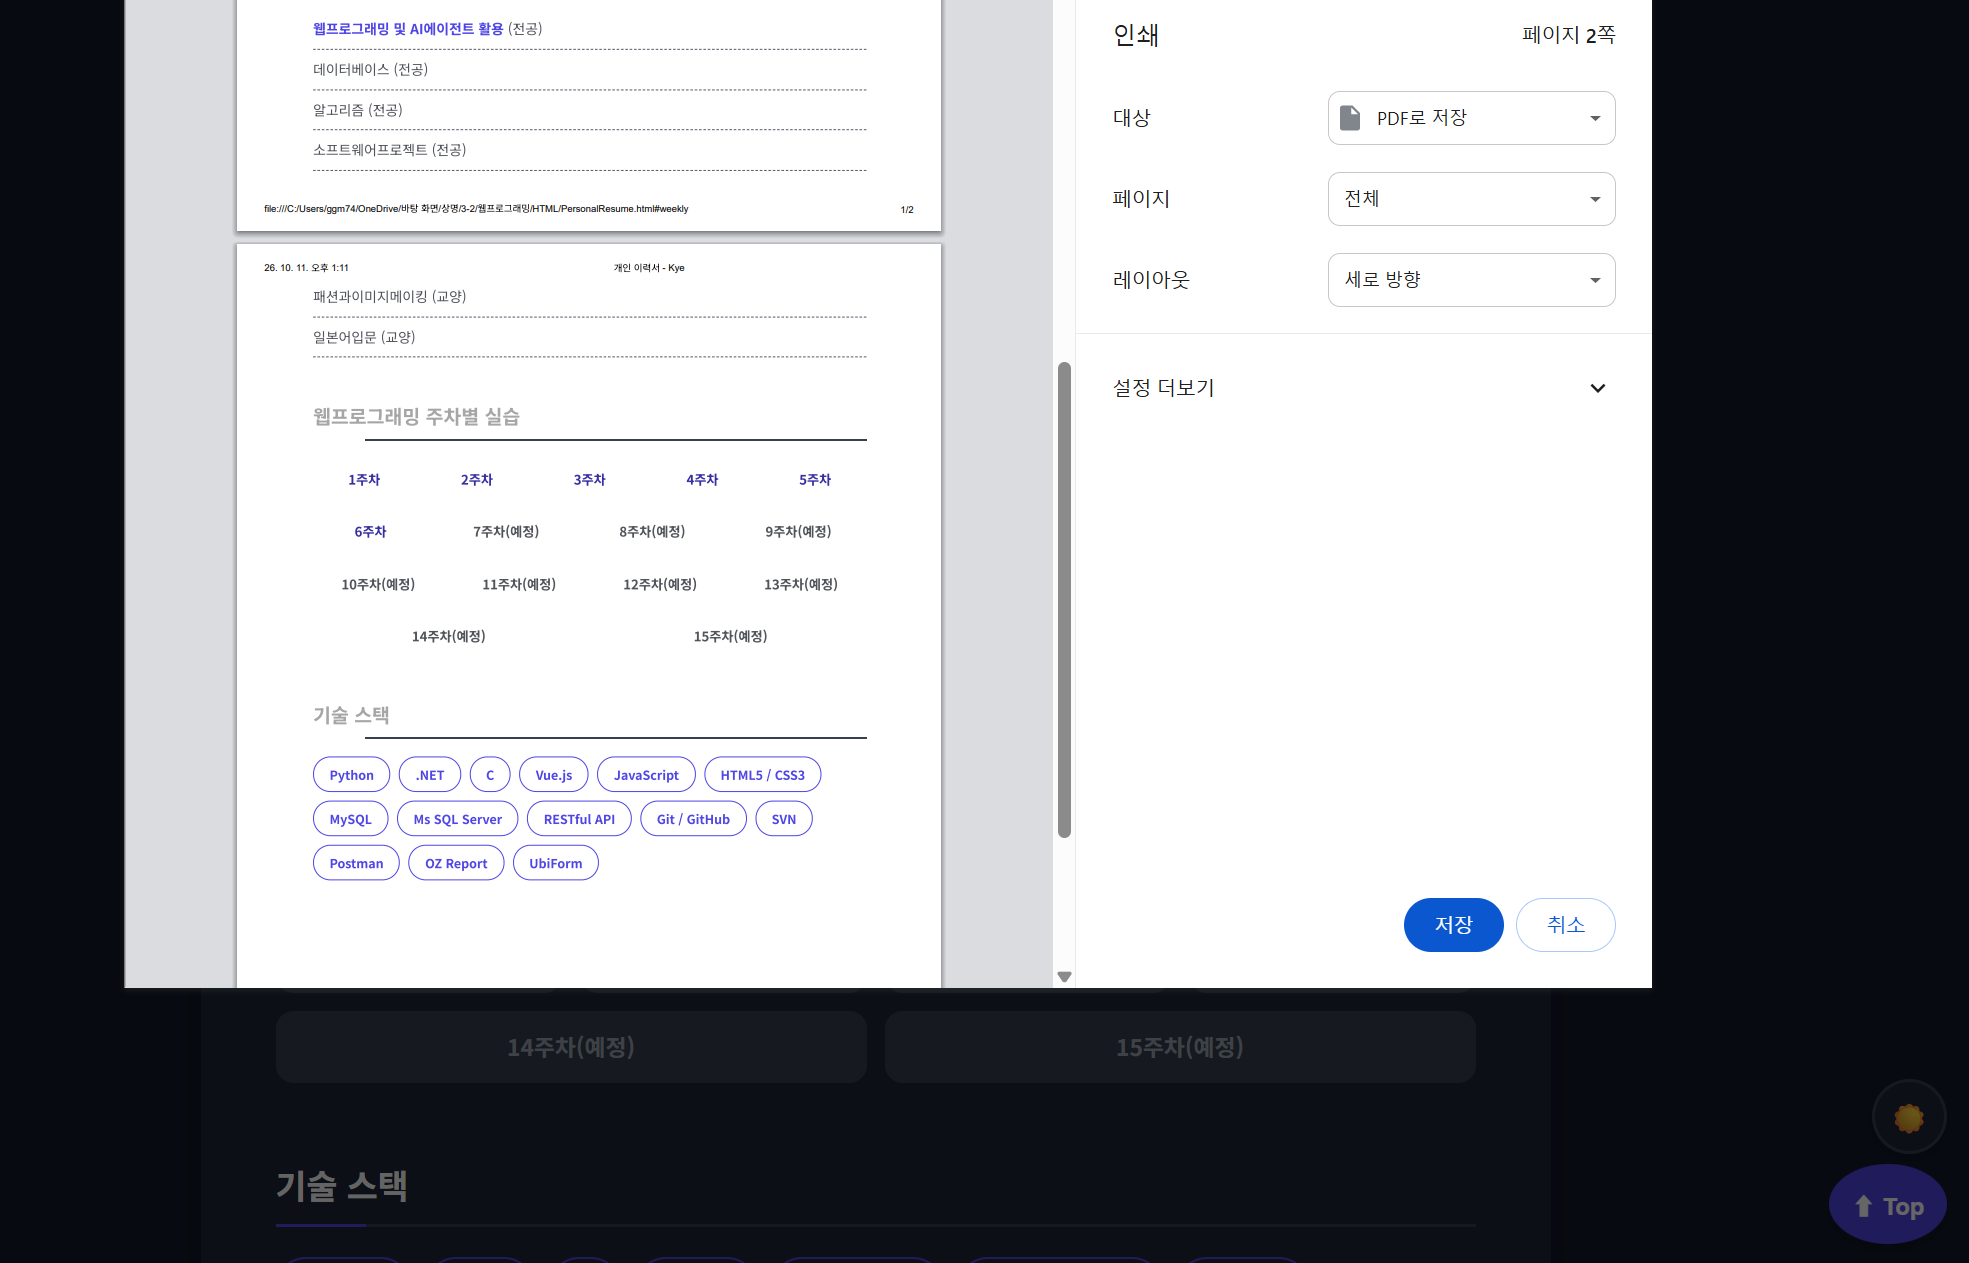
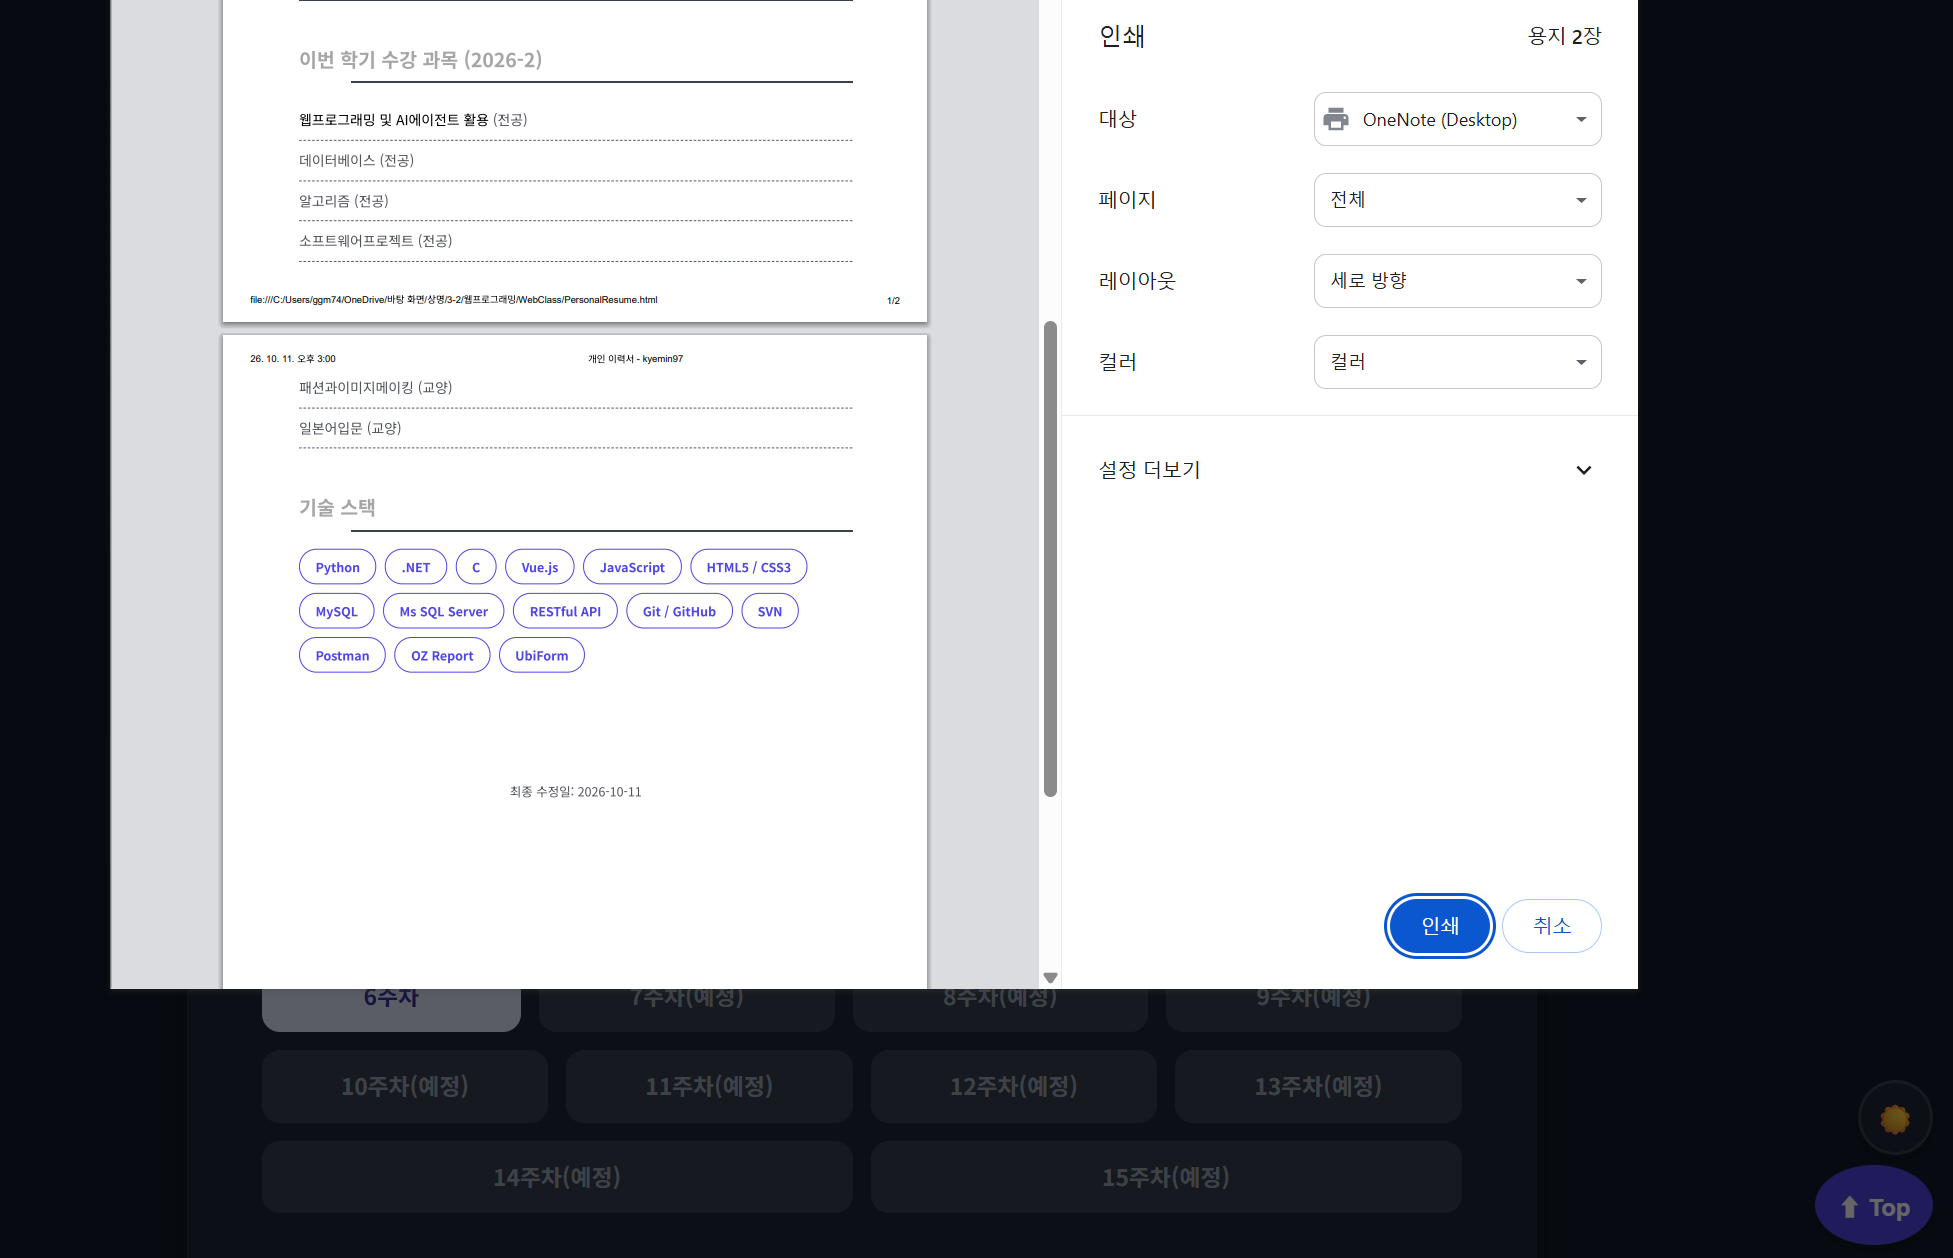
검수 이미지 변경

diff --git a/style.css b/style.css
@@ -431,8 +431,17 @@ body.dark-mode {
     #topBtn, 
     #themeToggle, 
     #contact-form,
-    .github-link {
+    .github-link,
+    #weekly {            /* 주차별 실습 영역 아예 숨기기 */
         display: none !important;
+    }
+
+    /* 클릭 불가능한 종이 환경에 맞춰 링크를 일반 텍스트처럼 위장 */
+    .cert-link,
+    #courses a {
+        text-decoration: none !important; /* 밑줄 제거 */
+        color: black !important;          /* 파란색 대신 기본 검은색으로 변경 */
+        font-weight: normal !important;   /* 두꺼운 글씨체 해제 (선택) */
     }
 }
 

diff --git a/Report.md b/Report.md
@@ -62,7 +62,7 @@
 | A-02 | 최상단 이동(Top) 버튼 | 내용이 길어질 경우를 대비한 사용자 스크롤 편의 제공 및 자바스크립트 스크롤 이벤트 감지 | ① 스크롤을 20px 이상 내리면 우측 하단에 위로 가기 버튼이 나타난다.<br>② 버튼 클릭 시 화면 최상단으로 부드럽게 이동한다. |
 | A-03 | 연락 남기기 폼 및 제어 | 폼(form) 요소 활용 및 자바스크립트를 이용한 기본 동작 차단 등 프론트엔드 이벤트 제어 | ① 하단에 이름, 메시지를 입력하는 폼과 전송 버튼이 있다.<br>② 전송 클릭 시 새로고침이 발생하지 않고 접수 완료 알림창(alert)이 뜬 후 입력칸이 빈칸으로 초기화된다. |
 | A-04 | 다크 모드 (Dark Mode) 토글 | 사용자 환경에 맞는 시각적 편안함 제공 및 CSS 변수(`:root`)와 JS DOM 제어를 활용한 동적 상태 관리 | ① 우측 하단에 테마 전환 토글 버튼(🌙/☀)이 있다.<br>② 클릭 시 전체 배경과 글자색이 어둡게 부드럽게 반전되며, 다크 모드에서도 테이블 텍스트 식별이 명확하다. |
-| A-05 | 인쇄용 화면 CSS 최적화 | 이력서를 종이나 PDF로 인쇄(`Ctrl+P`)할 때 불필요한 UI와 배경색을 제거하여 잉크 낭비를 막고 필요한 부분만 제공 | ① 인쇄 미리보기를 실행하면 배경 그림자, 테마 토글, 탑 버튼, 메시지 폼 영역이 화면에서 숨겨진다.<br>② 문서 배경색이 흰색, 글자는 검은색으로 고정된다. |
+| A-05 | 인쇄용 화면 CSS 최적화 | 이력서를 종이나 PDF로 인쇄(`Ctrl+P`)할 때 불필요한 UI와 배경색을 제거하여 잉크 낭비를 막고 필요한 부분만 제공 | ① 인쇄 미리보기를 실행하면 테마 토글, 폼 영역 등 불필요한 UI와 웹 전용 네비게이션(주차별 실습) 영역이 숨겨진다.<br>② 종이 환경에서는 클릭이 불가능하므로, 모달 및 앵커 링크들의 밑줄과 색상이 제거되어 일반 텍스트처럼 출력된다. |
 | A-06 | 스크롤 진행률 표시바 | 콘텐츠의 내용에 영향을 주지 않으면서, 사용자가 문서를 얼마나 읽었는지 시각적 힌트를 제공하여 UX를 개선 | ① 화면 최상단 윈도우 창틀 아래에 5px 두께의 진행률 바가 위치한다.<br>② 마우스 스크롤을 내리는 비율에 맞추어 바의 너비(width)가 실시간으로 채워진다. |
 | A-07 | 증빙 자료 모달(팝업) 뷰어 | 별도의 페이지 이동 없이 자격증 증빙 이미지를 띄워 사용자 편의성 제공 | ① 자격증 항목 클릭 시 화면 전체가 어두워지며 중앙에 증빙 이미지가 팝업으로 나타난다.<br>② 팝업 외의 배경이나 닫기(X) 버튼을 누르면 팝업이 사라진다. |
 
